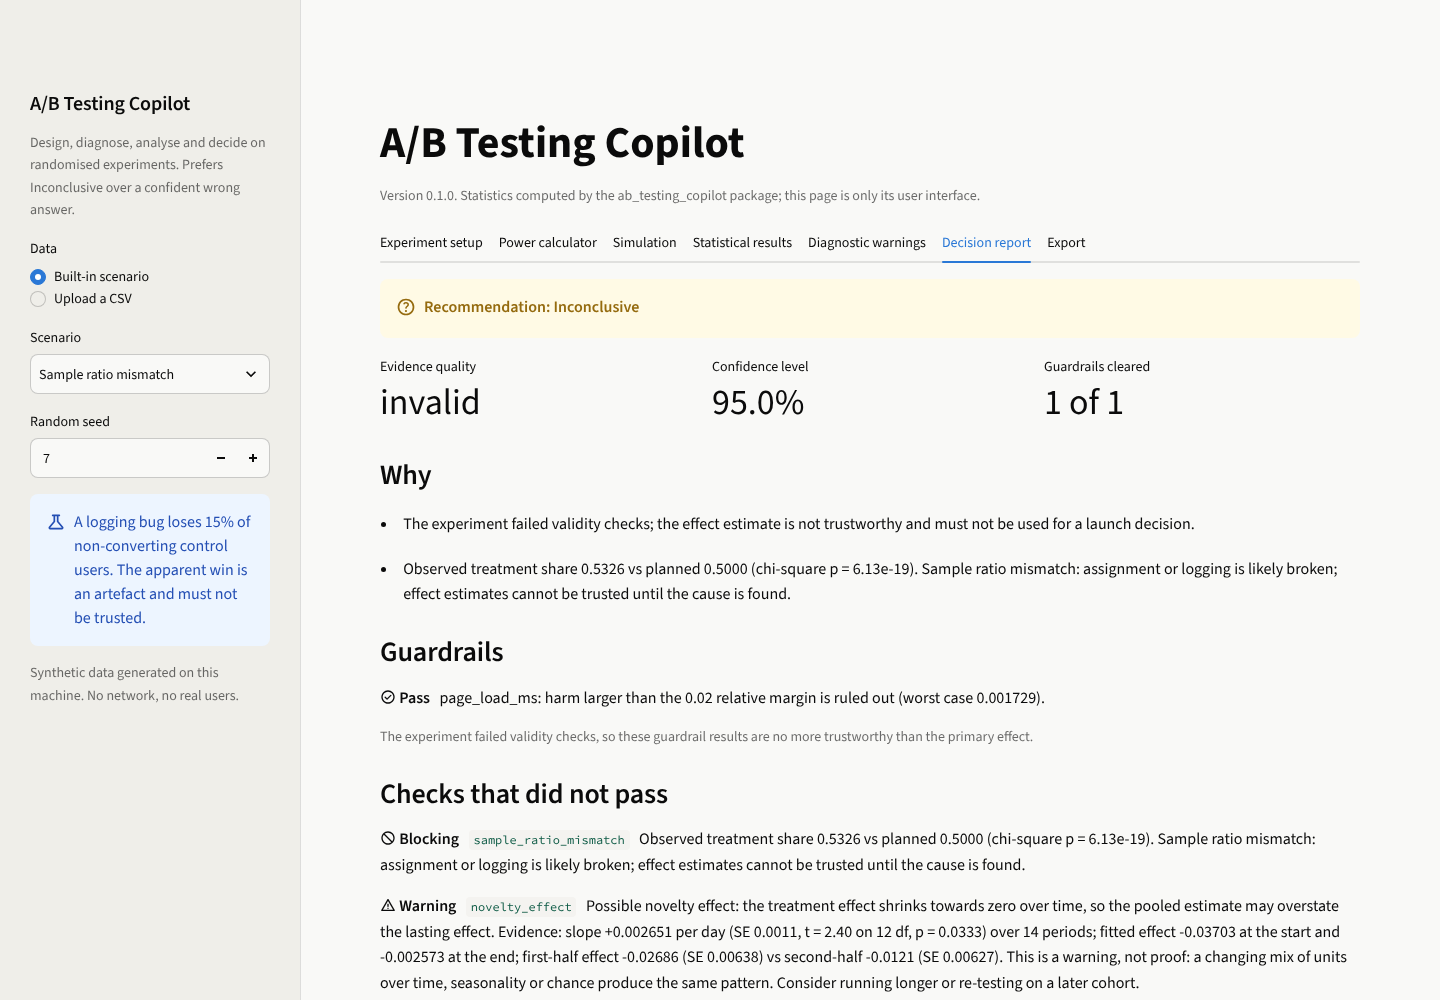
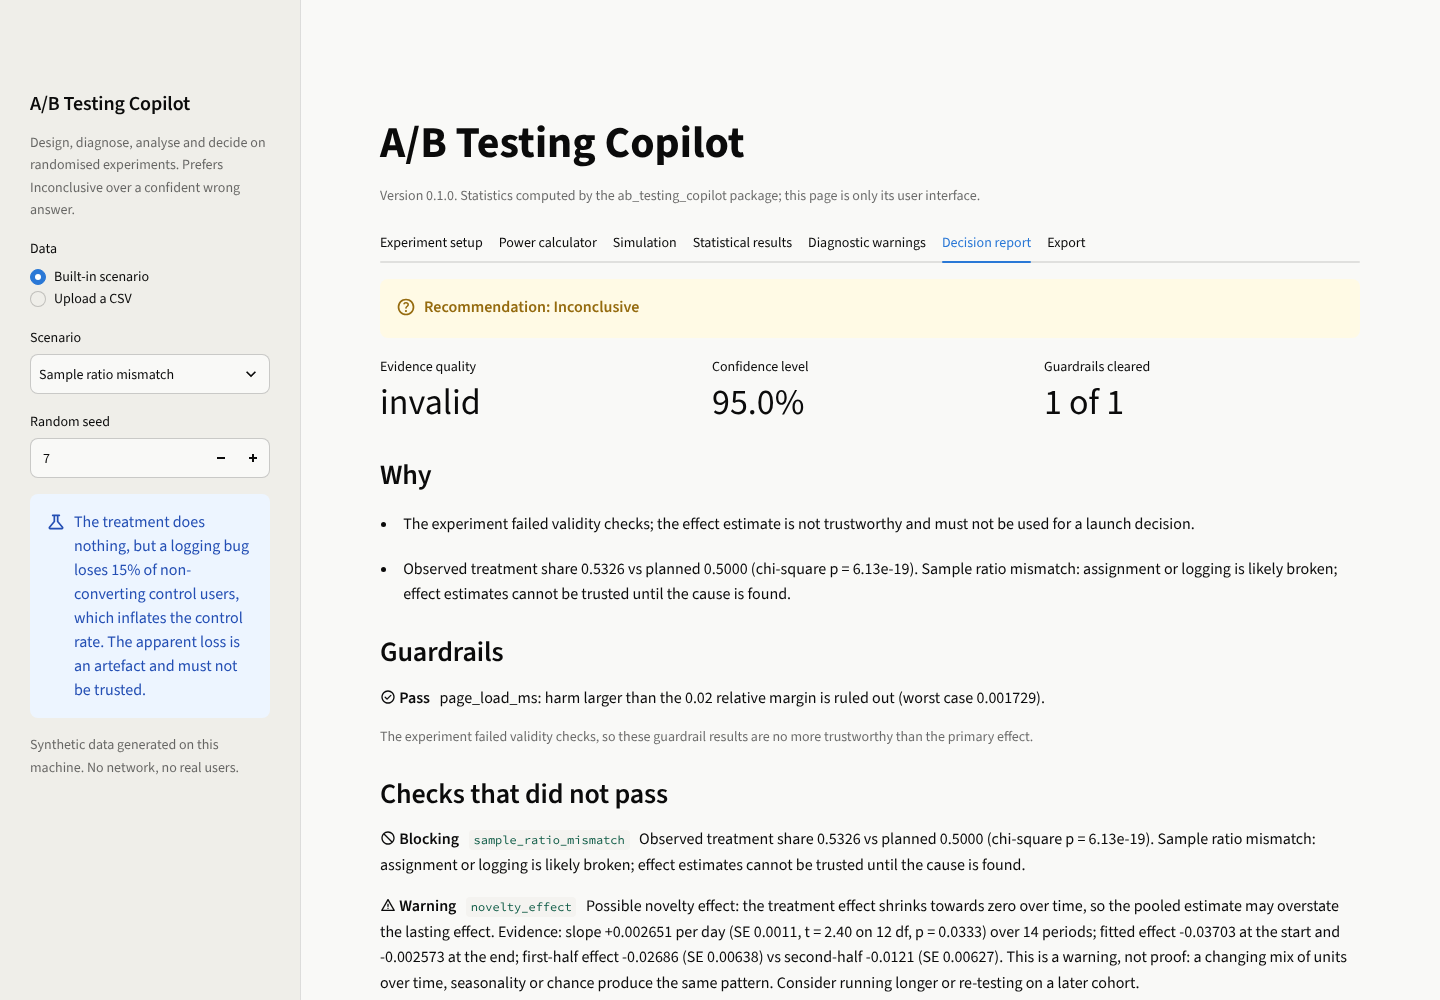
Correct the description of the sample ratio mismatch scenario
The scenario drops 15% of the non-converting control users. That inflates the
control rate, so a treatment that does nothing looks worse, not better. The
scenario text, the demo script and the demo README called the artefact an
apparent win. The data are unchanged; only the descriptions were wrong.

- synthetic.py: the scenario now says what the bug does and that the apparent
  loss is the artefact.
- A new test derives the expected bias (0.10 -> 0.1156 in control) and checks
  the direction of the naive effect, the wording and the engine's verdict for
  three seeds.
- demo: comment, table row and walkthrough step corrected; the walkthrough
  also says that the novelty warning shown in this scenario with the default
  seed is a chance alarm. Screenshot 06 retaken.

Claude-Session: https://claude.ai/code/session_01FXHVUanCBazYaBaXQo3Zjo

Changed region(s): [[0.0312, 0.496, 0.1562, 0.713], [0.0312, 0.744, 0.1562, 0.775]]

diff --git a/tests/unit/test_synthetic.py b/tests/unit/test_synthetic.py
@@ -87,3 +87,19 @@ def test_every_scenario_builds_and_can_be_analysed(name):
     assert report.decision.value in {"Ship", "Do not ship", "Inconclusive"}
     with pytest.raises(ValueError, match="unknown scenario"):
         make_scenario("nope")
+
+
+@pytest.mark.parametrize("seed", [7, 8, 9])
+def test_the_sample_ratio_mismatch_scenario_describes_the_artefact_it_contains(seed):
+    # Losing 15% of the non-converting control users lifts the control rate from 0.10 to
+    # 0.10 / (0.10 + 0.90 * 0.85) = 0.1156, so a treatment that does nothing looks 1.56 points
+    # worse. The scenario text must say "loss", and the engine must not turn it into a verdict.
+    df = make_scenario("sample_ratio_mismatch", seed)
+    rates = df.groupby("variant")["converted"].mean()
+    assert rates["treatment"] - rates["control"] == pytest.approx(-0.0156, abs=0.015)
+    assert rates["treatment"] < rates["control"]
+    truth = SCENARIOS["sample_ratio_mismatch"].truth
+    assert "apparent loss" in truth and "win" not in truth
+    report = analyze_experiment(df, ExperimentConfig(
+        primary=MetricSpec(column="converted", type="binary"), unit_col="user_id"))
+    assert report.decision.value == "Inconclusive" and report.evidence_quality == "invalid"

diff --git a/src/ab_testing_copilot/synthetic.py b/src/ab_testing_copilot/synthetic.py
@@ -119,8 +119,9 @@ SCENARIOS: dict[str, Scenario] = {
         {"load_ms_shift": 60.0}),
     "sample_ratio_mismatch": Scenario(
         "Sample ratio mismatch",
-        "A logging bug loses 15% of non-converting control users. The apparent win is an "
-        "artefact and must not be trusted.",
+        "The treatment does nothing, but a logging bug loses 15% of non-converting control "
+        "users, which inflates the control rate. The apparent loss is an artefact and must "
+        "not be trusted.",
         {"lift": 0.0, "srm_drop": 0.15}),
     "novelty_decay": Scenario(
         "Novelty decay",

diff --git a/demo/run_demo.py b/demo/run_demo.py
@@ -142,7 +142,7 @@ def build(out: Path) -> list[Path]:
          [{"bin": f"[{i / 10:.1f}, {(i + 1) / 10:.1f})", "count": c}
           for i, c in enumerate(clean.aa_check.p_value_histogram)])
 
-    # 2. A sample ratio mismatch: an apparent win that must not be trusted.
+    # 2. A sample ratio mismatch: a significant-looking loss that must not be trusted.
     srm = analyze_experiment(make_scenario("sample_ratio_mismatch"), ExperimentConfig(
         primary=CONVERTED, guardrails=[LOAD], unit_col="user_id"))
     save(out / "report_sample_ratio_mismatch.md",

diff --git a/demo/README.md b/demo/README.md
@@ -14,7 +14,7 @@ streamlit run app/streamlit_app.py # the interactive dashboard
 | File in `output/` | What it shows | Ground truth of the data |
 |---|---|---|
 | `report_clean_win.md`, `.json` | Full report: effect, guardrail, novelty check, exploratory segments, A/A check | Lift +1.5 pp, nothing else |
-| `report_sample_ratio_mismatch.md` | An apparent win refused because the sample ratio is broken | No lift; 15% of non-converting control users lost |
+| `report_sample_ratio_mismatch.md` | A significant-looking loss refused because the sample ratio is broken | No effect; 15% of non-converting control users lost, which inflates the control rate |
 | `report_novelty_decay.md` | Ship with weak evidence and a novelty warning | Lift starts at +6 pp and halves every 3 days |
 | `report_segment_heterogeneity.md` | Segment effects, labelled exploratory | Lift +3 pp on mobile only |
 | `report_sequential_look2.md`, `report_sequential_look3.md` | A pre-registered four-look design: held back at look 2, stopped at look 3 | Lift +3 pp |
@@ -34,8 +34,11 @@ inside the `plotly` Python package (MIT licence); it is written once and shared 
 2. **A clean result.** Open the dashboard. The default scenario ships: the effect and its
    interval are on *Statistical results*, every check on *Diagnostic warnings*.
 3. **A result that only looks clean.** Switch the scenario to *Sample ratio mismatch*. The
-   naive effect is large and "significant"; the recommendation is Inconclusive with
-   evidence quality *invalid*, and the report says what to investigate.
+   treatment does nothing, yet the naive effect is a "significant" loss of 1.9 points
+   (p = 0.00002). The recommendation is Inconclusive with evidence quality *invalid*, and
+   the report says what to investigate. With the default seed this scenario also raises
+   a novelty warning although the generator has no time trend: a chance alarm, and the
+   reason that check is worded as a warning and never as proof.
 4. **Looking early.** In *Experiment setup* choose *Pre-registered sequential design*, four
    looks, look 2. A z of 2.8 no longer ships: the boundary at that look is 2.96. The
    *Simulation* tab shows why: repeating a fixed 5% test five times rejects about 14% of

diff --git a/CHANGELOG.md b/CHANGELOG.md
@@ -57,6 +57,10 @@ Defects found by the new tests and fixed before release:
 - The planner accepted a binary baseline outside (0, 1) until sample-size time.
 - In the dashboard, choosing another primary metric left the metric type of the previous
   one selected.
+- The built-in sample ratio mismatch scenario described its artefact as an apparent win.
+  Losing non-converting control users inflates the control rate, so the artefact is an
+  apparent loss. The description, the demo text and the screenshot were corrected and a
+  test now ties the description to the data; the data did not change.
 
 First milestone (2026-11-13):
 
